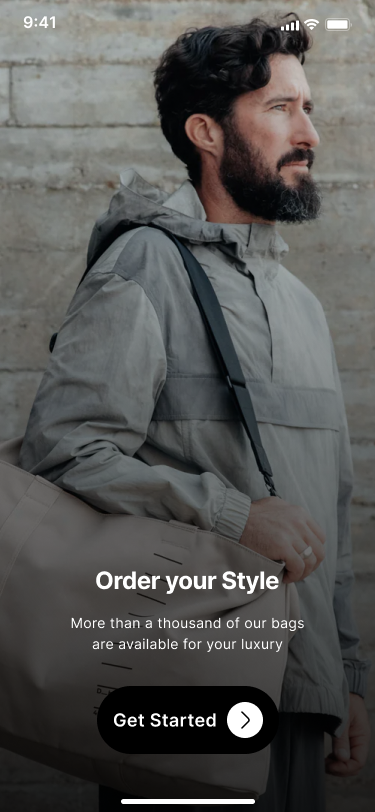
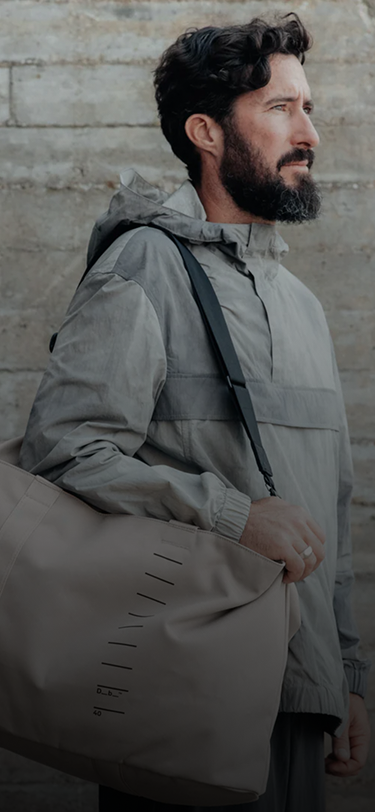
add onboarding scren two and three

diff --git a/lib/core/feature/onboarding/screens/onboarding_screen_two.dart b/lib/core/feature/onboarding/screens/onboarding_screen_two.dart
@@ -1,0 +1,92 @@
+import 'package:flutter/material.dart';
+import 'package:flutter_screenutil/flutter_screenutil.dart';
+import 'package:snapshop/core/common_widgets/button/custom_button.dart';
+import 'package:snapshop/core/common_widgets/dot_indicator/custom_do_indicator.dart';
+import 'package:snapshop/core/constants/app_colors.dart';
+import 'package:snapshop/core/constants/app_textstyle.dart';
+
+class OnboardingScreenTwo extends StatefulWidget {
+  const OnboardingScreenTwo({super.key});
+
+  @override
+  State<OnboardingScreenTwo> createState() => OnboardingScreenTwoState();
+}
+
+class OnboardingScreenTwoState extends State<OnboardingScreenTwo> {
+  @override
+  Widget build(BuildContext context) {
+    return Scaffold(
+      body: SizedBox(
+        width: double.infinity,
+        height: double.infinity,
+        child: Stack(
+          fit: StackFit.expand,
+          children: [
+            // Background image
+            Image.asset(
+              'assets/images/onboarding/onborading2.png',
+              fit: BoxFit.fill,
+            ),
+            Positioned(
+              top: 20,
+              left: 20,
+              child: CustomDotIndicator(count: 3, currentIndex: 1),
+            ),
+            // Foreground content
+            Positioned(
+              left: 24.w,
+              right: 24.w,
+              bottom: 30.h,
+              child: Column(
+                mainAxisSize: MainAxisSize.min,
+                crossAxisAlignment: CrossAxisAlignment.center,
+                children: [
+                  Text(
+                    'Order your Style',
+                    textAlign: TextAlign.center,
+                    style: AppTextstyle.inteBold.copyWith(
+                      color: AppColors.kWhite,
+                      fontSize: 32.sp,
+                      height: 1.3,
+                      letterSpacing: -0.64,
+                    ),
+                  ),
+
+                  SizedBox(height: 12.h),
+                  Text(
+                    'More than a thousand of our bags \nare available for your luxury',
+                    textAlign: TextAlign.center,
+                    style: AppTextstyle.interRegular.copyWith(
+                      color: AppColors.kWhite,
+                      fontSize: 14.sp,
+                      height: 1.5,
+                      letterSpacing: 0.3,
+                    ),
+                  ),
+                  SizedBox(height: 20.h),
+                  CustomButton(
+                    onPressed: () {},
+                    title: 'Get Started',
+                    icon: Icon(
+                      Icons.keyboard_arrow_right,
+                      color: AppColors.kBlack,
+                      size: 20.sp,
+                    ),
+                    iconBgColor: AppColors.kWhite,
+                    textStyle: AppTextstyle.interSemiBold,
+                    bgColor: AppColors.kBlack,
+                    fgColor: AppColors.kWhite,
+                    width: 182.w,
+                    height: 68.h,
+                    borderRadius: 35.r,
+                    padding: EdgeInsetsGeometry.all(16.r),
+                  ),
+                ],
+              ),
+            ),
+          ],
+        ),
+      ),
+    );
+  }
+}

diff --git a/lib/core/common_widgets/button/custom_button.dart b/lib/core/common_widgets/button/custom_button.dart
@@ -1,5 +1,4 @@
 import 'package:flutter/material.dart';
-import 'package:flutter_screenutil/flutter_screenutil.dart';
 
 class CustomButton extends StatelessWidget {
   final String title;
@@ -8,6 +7,18 @@ class CustomButton extends StatelessWidget {
   final Color fgColor;
   final VoidCallback onPressed;
 
+  final double width;
+  final double height;
+  final double borderRadius;
+  final EdgeInsetsGeometry padding;
+  final Widget? icon;
+  final double gap;
+
+  // New: optional background for the icon
+  final Color? iconBgColor;
+  final double iconBgSize;
+  final double iconBgRadius;
+
   const CustomButton({
     super.key,
     required this.onPressed,
@@ -15,26 +26,60 @@ class CustomButton extends StatelessWidget {
     required this.textStyle,
     required this.bgColor,
     required this.fgColor,
+    this.width = 343,
+    this.height = 56,
+    this.borderRadius = 16,
+    this.padding = const EdgeInsets.all(8.0),
+    this.icon,
+    this.gap = 10,
+    this.iconBgColor,
+    this.iconBgSize = 32,
+    this.iconBgRadius = 100, // fully circular by default
   });
 
   @override
   Widget build(BuildContext context) {
-    return Container(
-      width: 343.w,
-      height: 56.h,
+    return SizedBox(
+      width: width,
+      height: height,
       child: ElevatedButton(
         style: ElevatedButton.styleFrom(
-          padding: EdgeInsets.all(8.0),
+          padding: padding,
           shape: RoundedRectangleBorder(
-            borderRadius: BorderRadiusGeometry.circular(16),
+            borderRadius: BorderRadius.circular(borderRadius),
           ),
           backgroundColor: bgColor,
           foregroundColor: fgColor,
           elevation: 0,
         ),
         onPressed: onPressed,
-        child: Text(title, style: textStyle),
+        child: icon == null
+            ? Text(title, style: textStyle)
+            : Row(
+                mainAxisAlignment: MainAxisAlignment.center,
+                mainAxisSize: MainAxisSize.min,
+                children: [
+                  Text(title, style: textStyle),
+                  SizedBox(width: gap),
+                  _buildIcon(),
+                ],
+              ),
       ),
+    );
+  }
+
+  Widget _buildIcon() {
+    if (iconBgColor == null) return icon!;
+
+    return Container(
+      width: iconBgSize,
+      height: iconBgSize,
+      alignment: Alignment.center,
+      decoration: BoxDecoration(
+        color: iconBgColor,
+        borderRadius: BorderRadius.circular(iconBgRadius),
+      ),
+      child: icon,
     );
   }
 }

diff --git a/lib/core/feature/onboarding/screens/onboarding_screen_three.dart b/lib/core/feature/onboarding/screens/onboarding_screen_three.dart
@@ -1,0 +1,71 @@
+import 'package:flutter/material.dart';
+import 'package:flutter_screenutil/flutter_screenutil.dart';
+import 'package:snapshop/core/common_widgets/button/custom_button.dart';
+import 'package:snapshop/core/common_widgets/dot_indicator/custom_do_indicator.dart';
+import 'package:snapshop/core/constants/app_colors.dart';
+import 'package:snapshop/core/constants/app_textstyle.dart';
+
+class OnboardingScreenThree extends StatefulWidget {
+  const OnboardingScreenThree({super.key});
+
+  @override
+  State<OnboardingScreenThree> createState() => OnboardingScreenThreeState();
+}
+
+class OnboardingScreenThreeState extends State<OnboardingScreenThree> {
+  @override
+  Widget build(BuildContext context) {
+    return Scaffold(
+      body: SizedBox(
+        width: double.infinity,
+        height: double.infinity,
+        child: Stack(
+          fit: StackFit.expand,
+          children: [
+            // Background image
+            Image.asset(
+              'assets/images/onboarding/onborading3.png',
+              fit: BoxFit.fill,
+            ),
+            Positioned(
+              left: 24.w,
+              right: 24.w,
+              bottom: 55.h,
+              child: CustomDotIndicator(count: 3, currentIndex: 1),
+            ),
+            // Foreground content
+            Positioned(
+              left: 24.w,
+              right: 24.w,
+              bottom: 30.h,
+              child: Column(
+                mainAxisSize: MainAxisSize.min,
+                crossAxisAlignment: CrossAxisAlignment.center,
+                children: [
+                  SizedBox(height: 20.h),
+                  CustomButton(
+                    onPressed: () {},
+                    title: 'Get Started',
+                    icon: Icon(
+                      Icons.keyboard_arrow_right,
+                      color: AppColors.kBlack,
+                      size: 20.sp,
+                    ),
+                    iconBgColor: AppColors.kWhite,
+                    textStyle: AppTextstyle.interSemiBold,
+                    bgColor: AppColors.kBlack,
+                    fgColor: AppColors.kWhite,
+                    width: 182.w,
+                    height: 68.h,
+                    borderRadius: 35.r,
+                    padding: EdgeInsetsGeometry.all(16.r),
+                  ),
+                ],
+              ),
+            ),
+          ],
+        ),
+      ),
+    );
+  }
+}

diff --git a/lib/main.dart b/lib/main.dart
@@ -1,6 +1,8 @@
 import 'package:flutter/material.dart';
 import 'package:flutter_screenutil/flutter_screenutil.dart';
 import 'package:snapshop/core/feature/onboarding/screens/onboarding_screen_one.dart';
+import 'package:snapshop/core/feature/onboarding/screens/onboarding_screen_three.dart';
+import 'package:snapshop/core/feature/onboarding/screens/onboarding_screen_two.dart';
 import 'package:snapshop/core/feature/splash/screens/splash_screen.dart';
 
 void main() {
@@ -23,7 +25,7 @@ class MyApp extends StatelessWidget {
           theme: ThemeData(
             colorScheme: .fromSeed(seedColor: Colors.deepPurple),
           ),
-          home: OnboardingScreenOne(),
+          home: OnboardingScreenThree(),
         );
       },
     );
